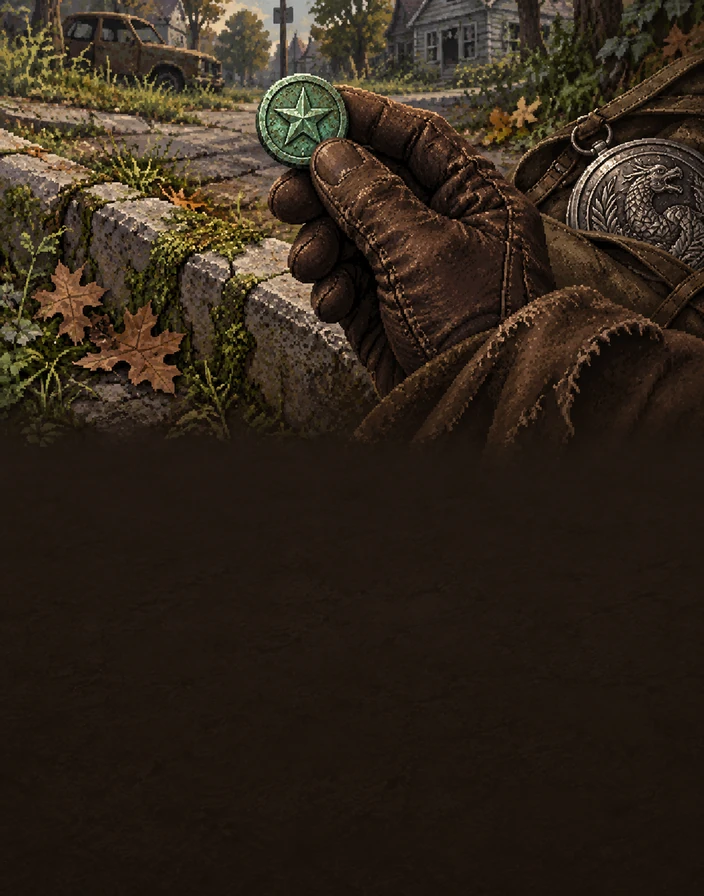
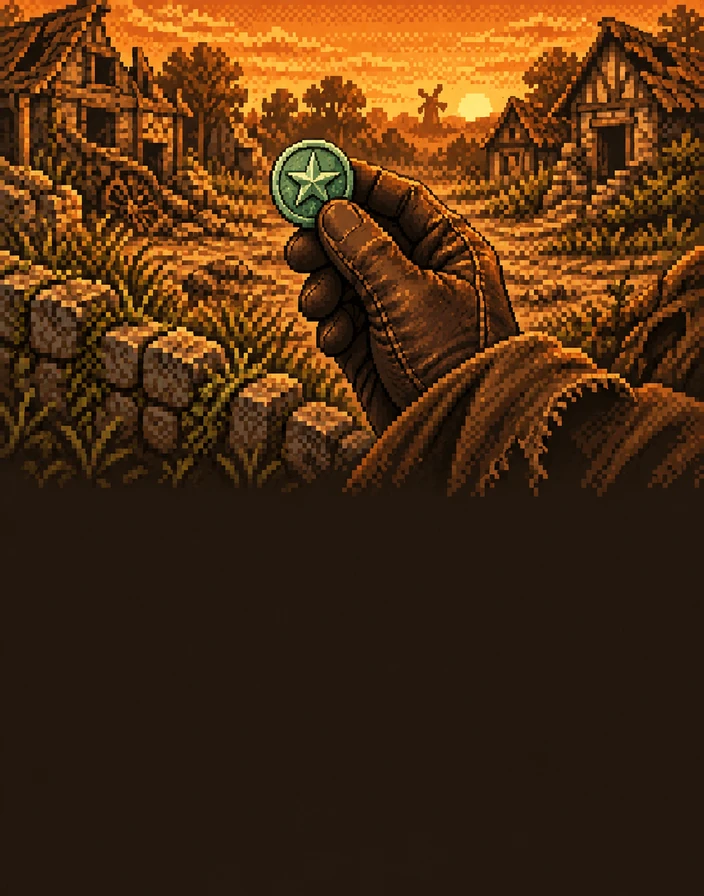
Restore the dragon dream loop and present story dialogue in speech bubbles

diff --git a/src/art_thumbs.js b/src/art_thumbs.js
@@ -37,7 +37,7 @@ const ART_THUMBS = {
[8 lines of base64/hex data omitted]
@@ -197,7 +197,7 @@ const ART_TONES = {
   chest_t5: '#7b492e',
   chest_t6: '#793c1a',
   chest_t7: '#705033',
-  coin_first: '#4b3d2c',
+  coin_first: '#824a19',
   death_memories: '#4f0d08',
   delivery_first: '#864418',
   discovery_badge: '#a5662a',
@@ -496,9 +496,9 @@ const ART_CUTS = {
[1 lines of base64/hex data omitted]
   ],
   coin_first: [
[6 lines of base64/hex data omitted]
   ],
   death_memories: [
[1 lines of base64/hex data omitted]

diff --git a/src/modal_shell.js b/src/modal_shell.js
@@ -551,6 +551,7 @@ class SceneModals {
     if (body != null && body !== '') {
       const bodyNode = document.createElement('div');
       bodyNode.style.cssText = 'margin:6px 0 12px';
+      if (kind === 'spirit' || kind === 'talk') bodyNode.className = 'modal-speech';
       bodyNode.innerHTML = body;
       box.appendChild(bodyNode);
     }
@@ -591,7 +592,7 @@ class SceneModals {
     const titleHTML = title
       ? `<div style="opacity:.85;font-size:13px;margin-bottom:8px;color:#ffe066">${kind === 'memory' ? this.iconSpanHTML('memory', 18) + ' ' : ''}${title}</div>`
       : '';
-    box.innerHTML = titleHTML + `<div style="margin:6px 0 12px;white-space:pre-wrap">${safeBody}</div>`;
+    box.innerHTML = titleHTML + `<div class="${kind === 'spirit' || kind === 'talk' ? 'modal-speech' : ''}" style="margin:6px 0 12px;white-space:pre-wrap">${safeBody}</div>`;
     const btn = mkBtn(okLabel);
     btn.addEventListener('click', (e) => {
       e.stopPropagation();
@@ -632,6 +633,20 @@ class SceneModals {
       // screen edge, retaining silver shoulders around the circular map. Its
       // layout position ignores the entrance transform and follows resizing.
       if (document.getElementById('compass-body')) {
+        const money = document.getElementById('money');
+        const moneyTop = money && shown(money) ? money.getBoundingClientRect().top : null;
+        for (const box of document.querySelectorAll('.compass-panel[data-kind="story"] > .modal-box')) {
+          const wrap = box.parentElement, bounds = wrap.getBoundingClientRect();
+          const scale = bounds.height / wrap.offsetHeight;
+          if (moneyTop != null && scale > 0) {
+            // Keep the story rail above the whole coin readout, even when
+            // the scaled game and body-level HUD use different coordinates.
+            const top = `${Math.max(0, (moneyTop - 6 - bounds.top) / scale)}px`;
+            if (box.style.getPropertyValue('--story-panel-top') !== top) {
+              box.style.setProperty('--story-panel-top', top);
+            }
+          }
+        }
         const tops = [...document.querySelectorAll('.compass-panel > .modal-box')]
           .filter(shown).map(el => {
             const wrap = el.parentElement, bounds = wrap.getBoundingClientRect();
@@ -1163,7 +1178,7 @@ class SceneModals {
       ? `<div style="margin-top:6px;font-size:22px;font-weight:700;color:${color};line-height:1.1">${qty}</div>`
       : '';
     const subHtml = sub
-      ? `<div style="margin-top:4px;font-size:13px;opacity:.85">${sub}</div>`
+      ? `<div class="${kind === 'spirit' || kind === 'talk' ? 'modal-speech' : ''}" style="margin-top:4px;font-size:13px;opacity:.85">${sub}</div>`
       : '';
     const badge = (tier > 0 && typeof tierBadgeHTML === 'function') ? tierBadgeHTML(tier, 11) : '';
     const tierHtml = badge ? `<div style="margin-top:6px;line-height:0">${badge}</div>` : '';

diff --git a/css/compass_panels.css b/css/compass_panels.css
@@ -18,6 +18,10 @@
 }
 /* Shade the exposed game behind the sheet and the body-level HUD above it. */
 .compass-panel { background-image: linear-gradient(#0008, #0008) !important; }
+/* Body-level readouts stop at the sheet edge instead of painting over its rail. */
+body.compass-hud.modal-open:has(.compass-panel) #hud-row {
+  clip-path: inset(-12px -12px calc(100% + var(--compass-hud-top, 8px) - var(--compass-panel-edge, 100vh)) -12px);
+}
 body.compass-hud.modal-open:has(.compass-panel)::after {
   content: ''; position: fixed; z-index: 9; pointer-events: none;
   top: 0; left: var(--phone-left, 0px); right: var(--phone-right, 0px);
@@ -37,6 +41,9 @@ body.compass-hud.modal-open:has(.compass-panel)::after {
   box-shadow: inset 4px 0 0 #424a48, inset -4px 0 0 #424a48,
     0 -5px 24px #0009, 0 -1px 0 #e1edf0;
   isolation: isolate;
+}
+.compass-panel[data-kind='story'] > .modal-box {
+  top: min(calc(var(--view-h, 844px) * .125), var(--story-panel-top, 100vh)) !important;
 }
 .compass-panel > .modal-box::before, #story.compass-story .box::before {
   content: '';
@@ -223,3 +230,29 @@ body.compass-hud #menu[open] > summary {
 @media(max-height:650px) {.opening-sealed {font-size:12px;}}
 /* A list reads from the top, not centred in the tall sheet. */
 .compass-panel[data-kind='menu'] .modal-content { margin-top: 0 !important; }
+
+/* Spoken copy is one chat bubble beneath the speaker. Titles and choices
+   remain outside it, and the shared body remains the only scroll region. */
+.compass-panel:is([data-kind='spirit'],[data-kind='talk']) .modal-content {
+  margin-top:8px!important;margin-bottom:auto!important;
+}
+.compass-panel .modal-speech {
+  position:relative;box-sizing:border-box;
+  margin:16px 2px 18px!important;padding:14px 16px;
+  border:1px solid #bfc5b7;border-radius:18px;
+  background:linear-gradient(145deg,#e0e3d8,#c8cebf);
+  color:#222a24;font-size:15px!important;line-height:1.5;
+  text-align:left;text-shadow:none;opacity:1!important;
+  overflow-wrap:anywhere;
+  box-shadow:inset 0 1px #f5f6ed,0 2px 5px #050a07a6;
+}
+.compass-panel .modal-speech::before {
+  content:'';position:absolute;top:-8px;left:calc(50% - 7px);
+  width:14px;height:14px;transform:rotate(45deg);
+  border-top:1px solid #bfc5b7;border-left:1px solid #bfc5b7;
+  background:#dce0d4;
+}
+.compass-panel .modal-speech em {color:#485347;}
+@media(max-width:360px) {
+  .compass-panel .modal-speech {padding:12px;font-size:14px!important;}
+}

diff --git a/test/node/opening_replay.test.js b/test/node/opening_replay.test.js
@@ -84,7 +84,7 @@ test('opening: the FULL sequence is four slides, in order, each with its own art
   }
 });
 
-test('opening: all four frame pairs align, fade once and describe the image once', () => {
+test('opening: all four frame pairs align and describe the image once', () => {
   for (const stem of ['story_compass', 'story_nightmare', 'story_wake', 'story_wrecks']) {
     const first = webpDims(`assets/art/${stem}.webp`);
     const second = webpDims(`assets/art/${stem}_frame2.webp`);
@@ -95,9 +95,15 @@ test('opening: all four frame pairs align, fade once and describe the image once
   assert.eq((html.match(/class="story-frame-next"[^>]*alt="" aria-hidden="true"/g) || []).length, 4,
     'second frames do not repeat descriptions to screen readers');
   assert.truthy(html.includes('animation: story-crossfade 1.2s ease-in-out 1.5s forwards;'),
-    'each fresh frame pair waits 1.5 seconds and fades once, holding its final frame');
+    'ordinary frame pairs wait 1.5 seconds and fade once, holding their final frame');
   assert.truthy(/#story \.story-frame-next \{ animation: none; \}/.test(html),
     'reduced motion leaves the first frame still');
+});
+
+test('opening: dragon heads and flames alternate continuously while the dream is open', () => {
+  const rule = html.match(/#story\.nightmare \.story-frame-next\s*\{([^}]+)\}/)?.[1] || '';
+  assert.truthy(/animation-iteration-count:\s*infinite/.test(rule), 'movement continues beyond the camera push');
+  assert.truthy(/animation-direction:\s*alternate/.test(rule), 'the second painting fades back to the first');
 });
 
 test('opening: the story plays FIRST, and the safety CTA waits for its last slide', () => {

diff --git a/index.html b/index.html
@@ -1044,6 +1044,11 @@
       position: absolute; inset: 0; opacity: 0;
       animation: story-crossfade 1.2s ease-in-out 1.5s forwards;
     }
+    /* Keep the dragon heads and flames moving while the dream is open. */
+    #story.nightmare .story-frame-next {
+      animation-iteration-count: infinite;
+      animation-direction: alternate;
+    }
     @keyframes story-crossfade {
       from { opacity: 0; }
       to { opacity: 1; }
@@ -1229,9 +1234,9 @@
     #howto button#howto-close[hidden] { display: none; }
   </style>
   <link rel="stylesheet" href="css/compass_shine.css?v=2196f9a5">
-  <link rel="stylesheet" href="css/compass_hud.css?v=78408560">
+  <link rel="stylesheet" href="css/compass_hud.css?v=da646081">
   <link rel="stylesheet" href="css/compass_inventory.css?v=b2babd71">
-  <link rel="stylesheet" href="css/compass_panels.css?v=d214ab07">
+  <link rel="stylesheet" href="css/compass_panels.css?v=4750586a">
 </head>
 <!-- `booting` hides the money/energy row until the scene has a real balance to
      put in it; MapScene.updateHUD drops the class on the first paint. -->
@@ -3103,8 +3108,8 @@
   <script src="src/sandbox.js?v=60d9c0d6"></script>
   <script src="src/testtools.js?v=5767ffd9"></script>
   <script src="src/geo.js?v=0a205c42"></script>
-  <script src="src/art_thumbs.js?v=980f45a4"></script>
-  <script src="src/modal_shell.js?v=bcd655df"></script>
+  <script src="src/art_thumbs.js?v=19a4f216"></script>
+  <script src="src/modal_shell.js?v=9cc03d68"></script>
   <script src="src/scene_geo.js?v=5440fa32"></script>
   <script src="src/npc.js?v=eb1e1862"></script>
   <script src="src/scene_creatures.js?v=e2bd723e"></script>

diff --git a/css/compass_hud.css b/css/compass_hud.css
@@ -305,9 +305,9 @@ body.compass-hud #compass-knowledge-display > .compass-closed::after {content:at
 @media(max-height:650px) {body.compass-hud #compass-knowledge-display > .compass-closed::after {font-size:12px;}}
 
 /* Equal responsive gaps include the menu; the memory window takes spare width. */
-body.compass-hud {--compass-top-gap:clamp(8px,calc((var(--compass-map-size) - 320px) * .1 + 8px),18px);}
+body.compass-hud {--compass-hud-top:8px;--compass-top-gap:clamp(8px,calc((var(--compass-map-size) - 320px) * .1 + 8px),18px);}
 body.compass-hud #hud-row {
-  top:8px;left:calc(var(--phone-left,0px) + 8px + var(--compass-map-size) * .12 + var(--compass-top-gap));
+  top:var(--compass-hud-top);left:calc(var(--phone-left,0px) + 8px + var(--compass-map-size) * .12 + var(--compass-top-gap));
   right:calc(var(--phone-right,0px) + 8px);
   height:88px;display:grid;grid-template-columns:minmax(0,1fr) 84px 72px;
   grid-template-rows:72px 26px;column-gap:var(--compass-top-gap);row-gap:4px;align-items:center;

diff --git a/sw.js b/sw.js
@@ -1,7 +1,7 @@
 // Content-addressed resources survive deployments. HTML stays network-first;
 // tiles retain their independent offline cache. Keep two shell generations so
 // old tabs can still request their exact script URLs after a worker update.
-const SHELL_VERSION = 'shell-500db0b7';
+const SHELL_VERSION = 'shell-693d9d63';
 
 const RESOURCE_CACHE = 'terracart-resources-v1';
 const RESOURCE_MANIFEST = './__terracart_resource_manifest__';
@@ -724,7 +724,7 @@ const ASSET_HASHES = {
   "assets/art/chest_t5.webp": "4eff02df",
   "assets/art/chest_t6.webp": "7ad2158a",
   "assets/art/chest_t7.webp": "b1422843",
-  "assets/art/coin_first.webp": "3582b9d4",
+  "assets/art/coin_first.webp": "e5db7b70",
   "assets/art/death_memories.webp": "a2e5b296",
   "assets/art/delivery_first.webp": "c6196484",
   "assets/art/discovery_badge.webp": "55979036",

diff --git a/docs/design/presentation.md b/docs/design/presentation.md
@@ -9,6 +9,8 @@ changing dialogue, story panels, books, toasts or status presentation.
 - Reward acknowledgments and safety reminders use an explicit OK button;
   tapping the body or backdrop does not dismiss them. Dragon Spirit messages
   and confirmations use the NPC portrait layout with the spirit artwork.
+  Dragon Spirit and NPC spoken copy appears in a pale chat bubble beneath the
+  portrait; speaker titles and response choices stay outside the bubble.
   The first earned green coin opens its own `coin_first` scene painting before
   revealing the money readout; its raised star matches the compact currency icon.
 
@@ -30,7 +32,9 @@ changing dialogue, story panels, books, toasts or status presentation.
 - The four opening panes show the compass discovery, dragon-war dream,
   trailer awakening, then the ruined street. Each has two aligned paintings:
   hold the first for 1.5 seconds, crossfade once over 1.2 seconds, and keep
-  the second frame. Discovery and the dream are borderless fullscreen panels.
+  the second frame. The dragon dream instead keeps alternating between its
+  two paintings while open, so the heads and flames continue moving after
+  the camera push ends. Discovery and the dream are borderless fullscreen panels.
   Awakening begins “You check the compass.” and uses the living-silver compass
   story sheet, as does the ruined street and subsequent narrative. Paintings
   remain uncropped with readable copy below. The dream retains its eight-second camera push and
